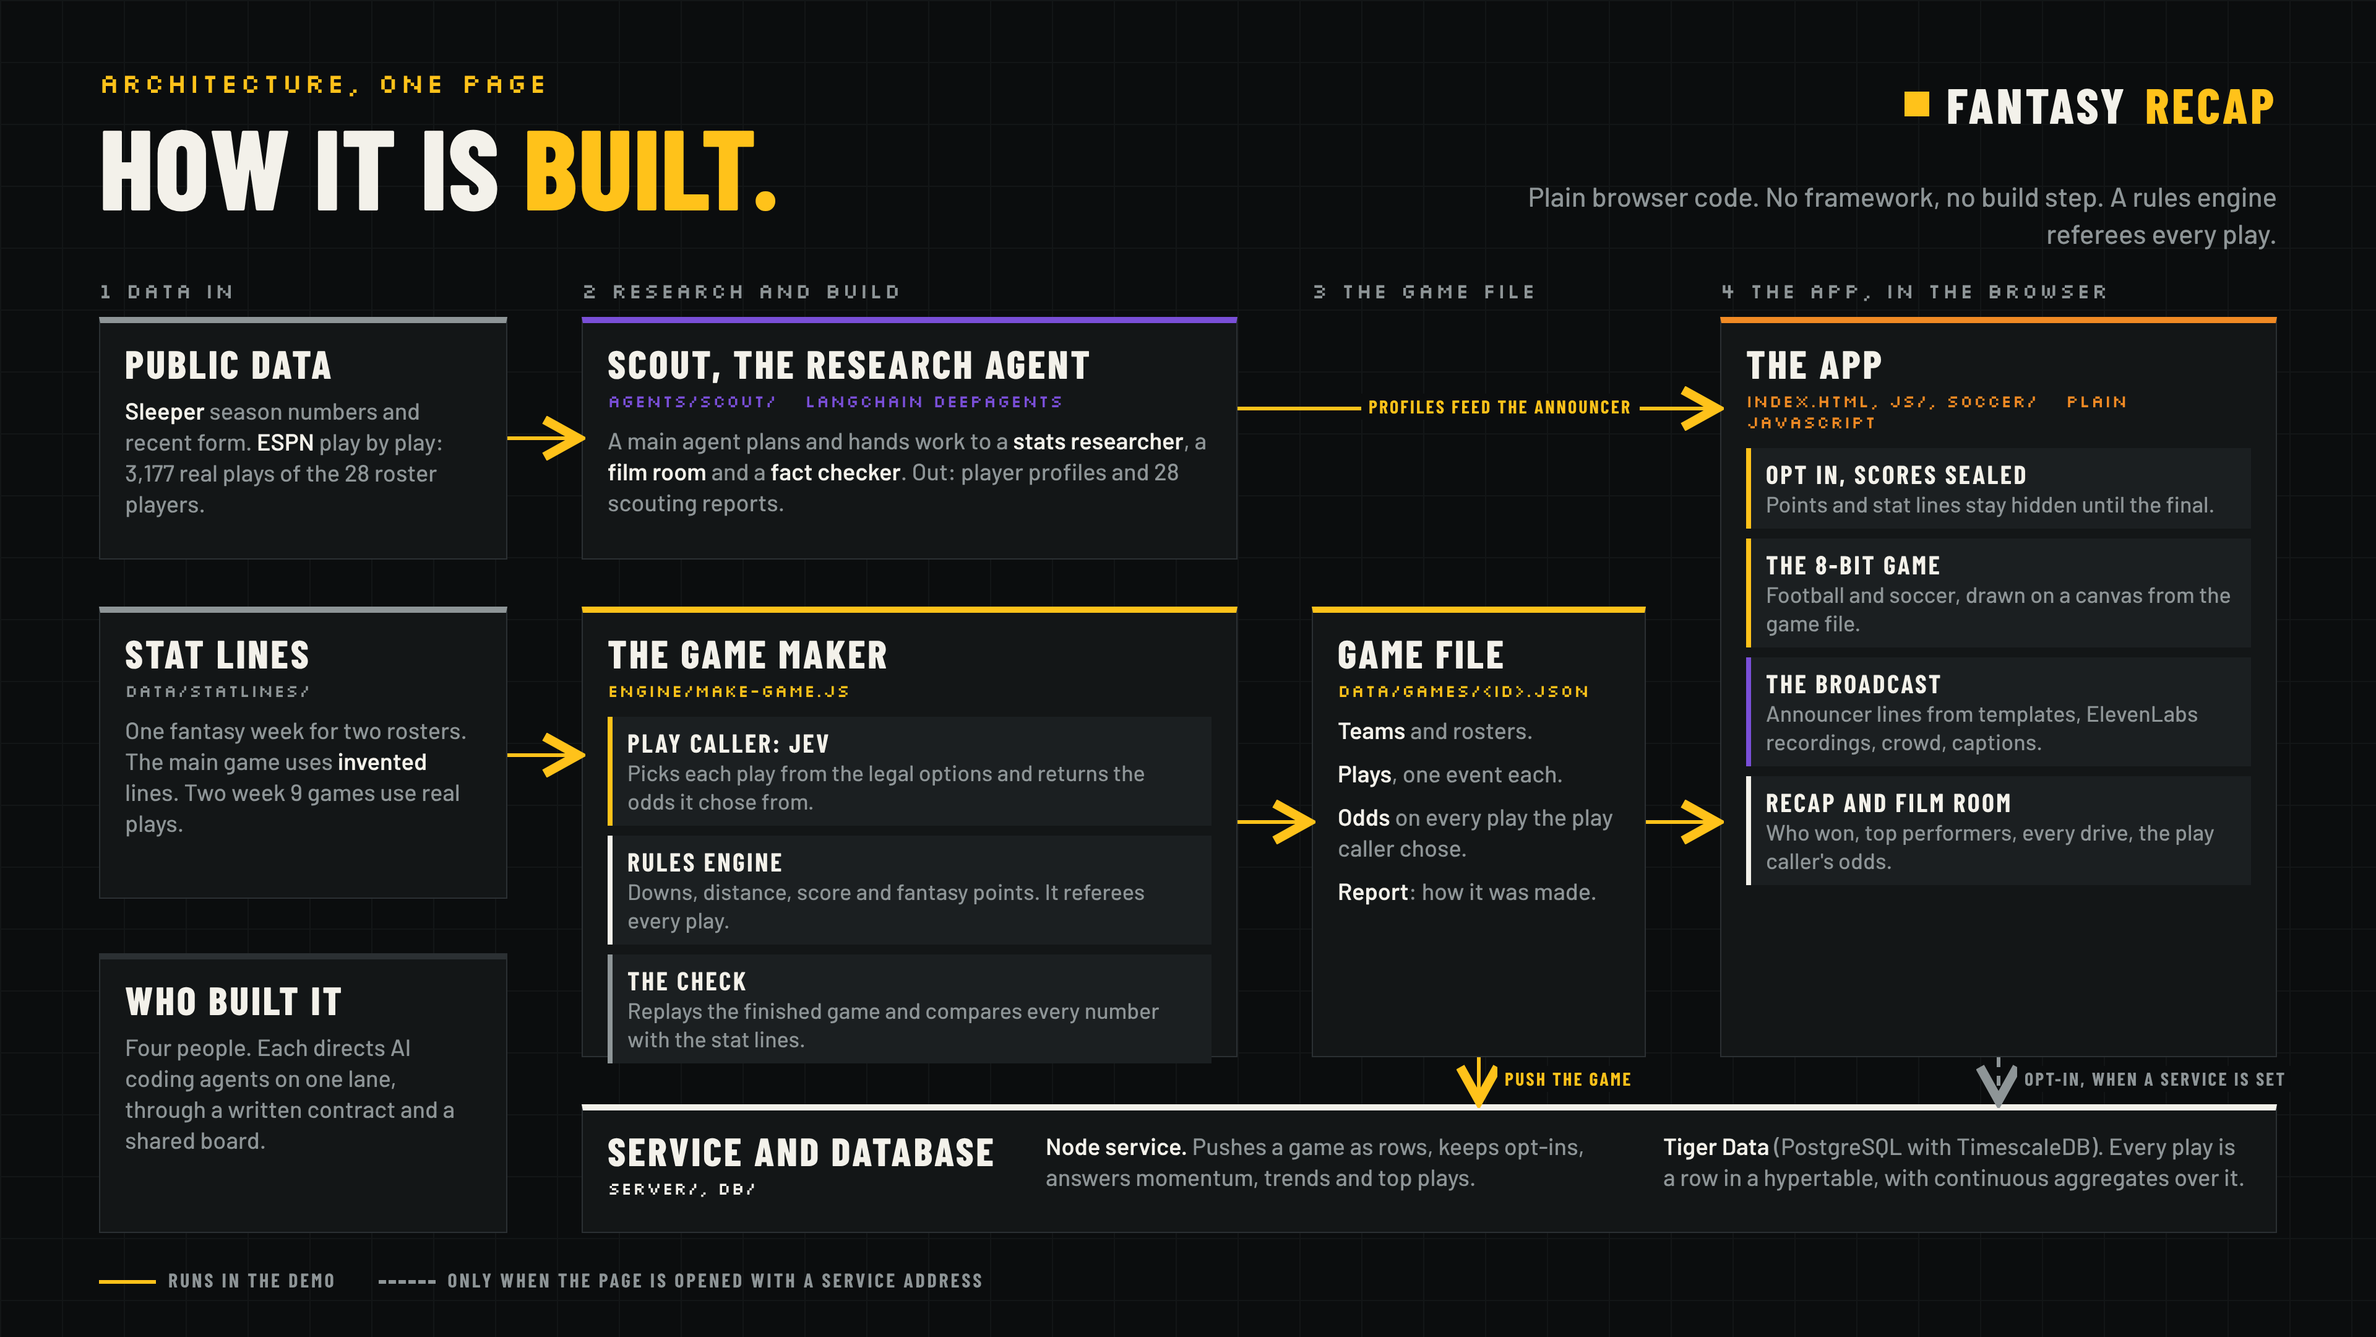
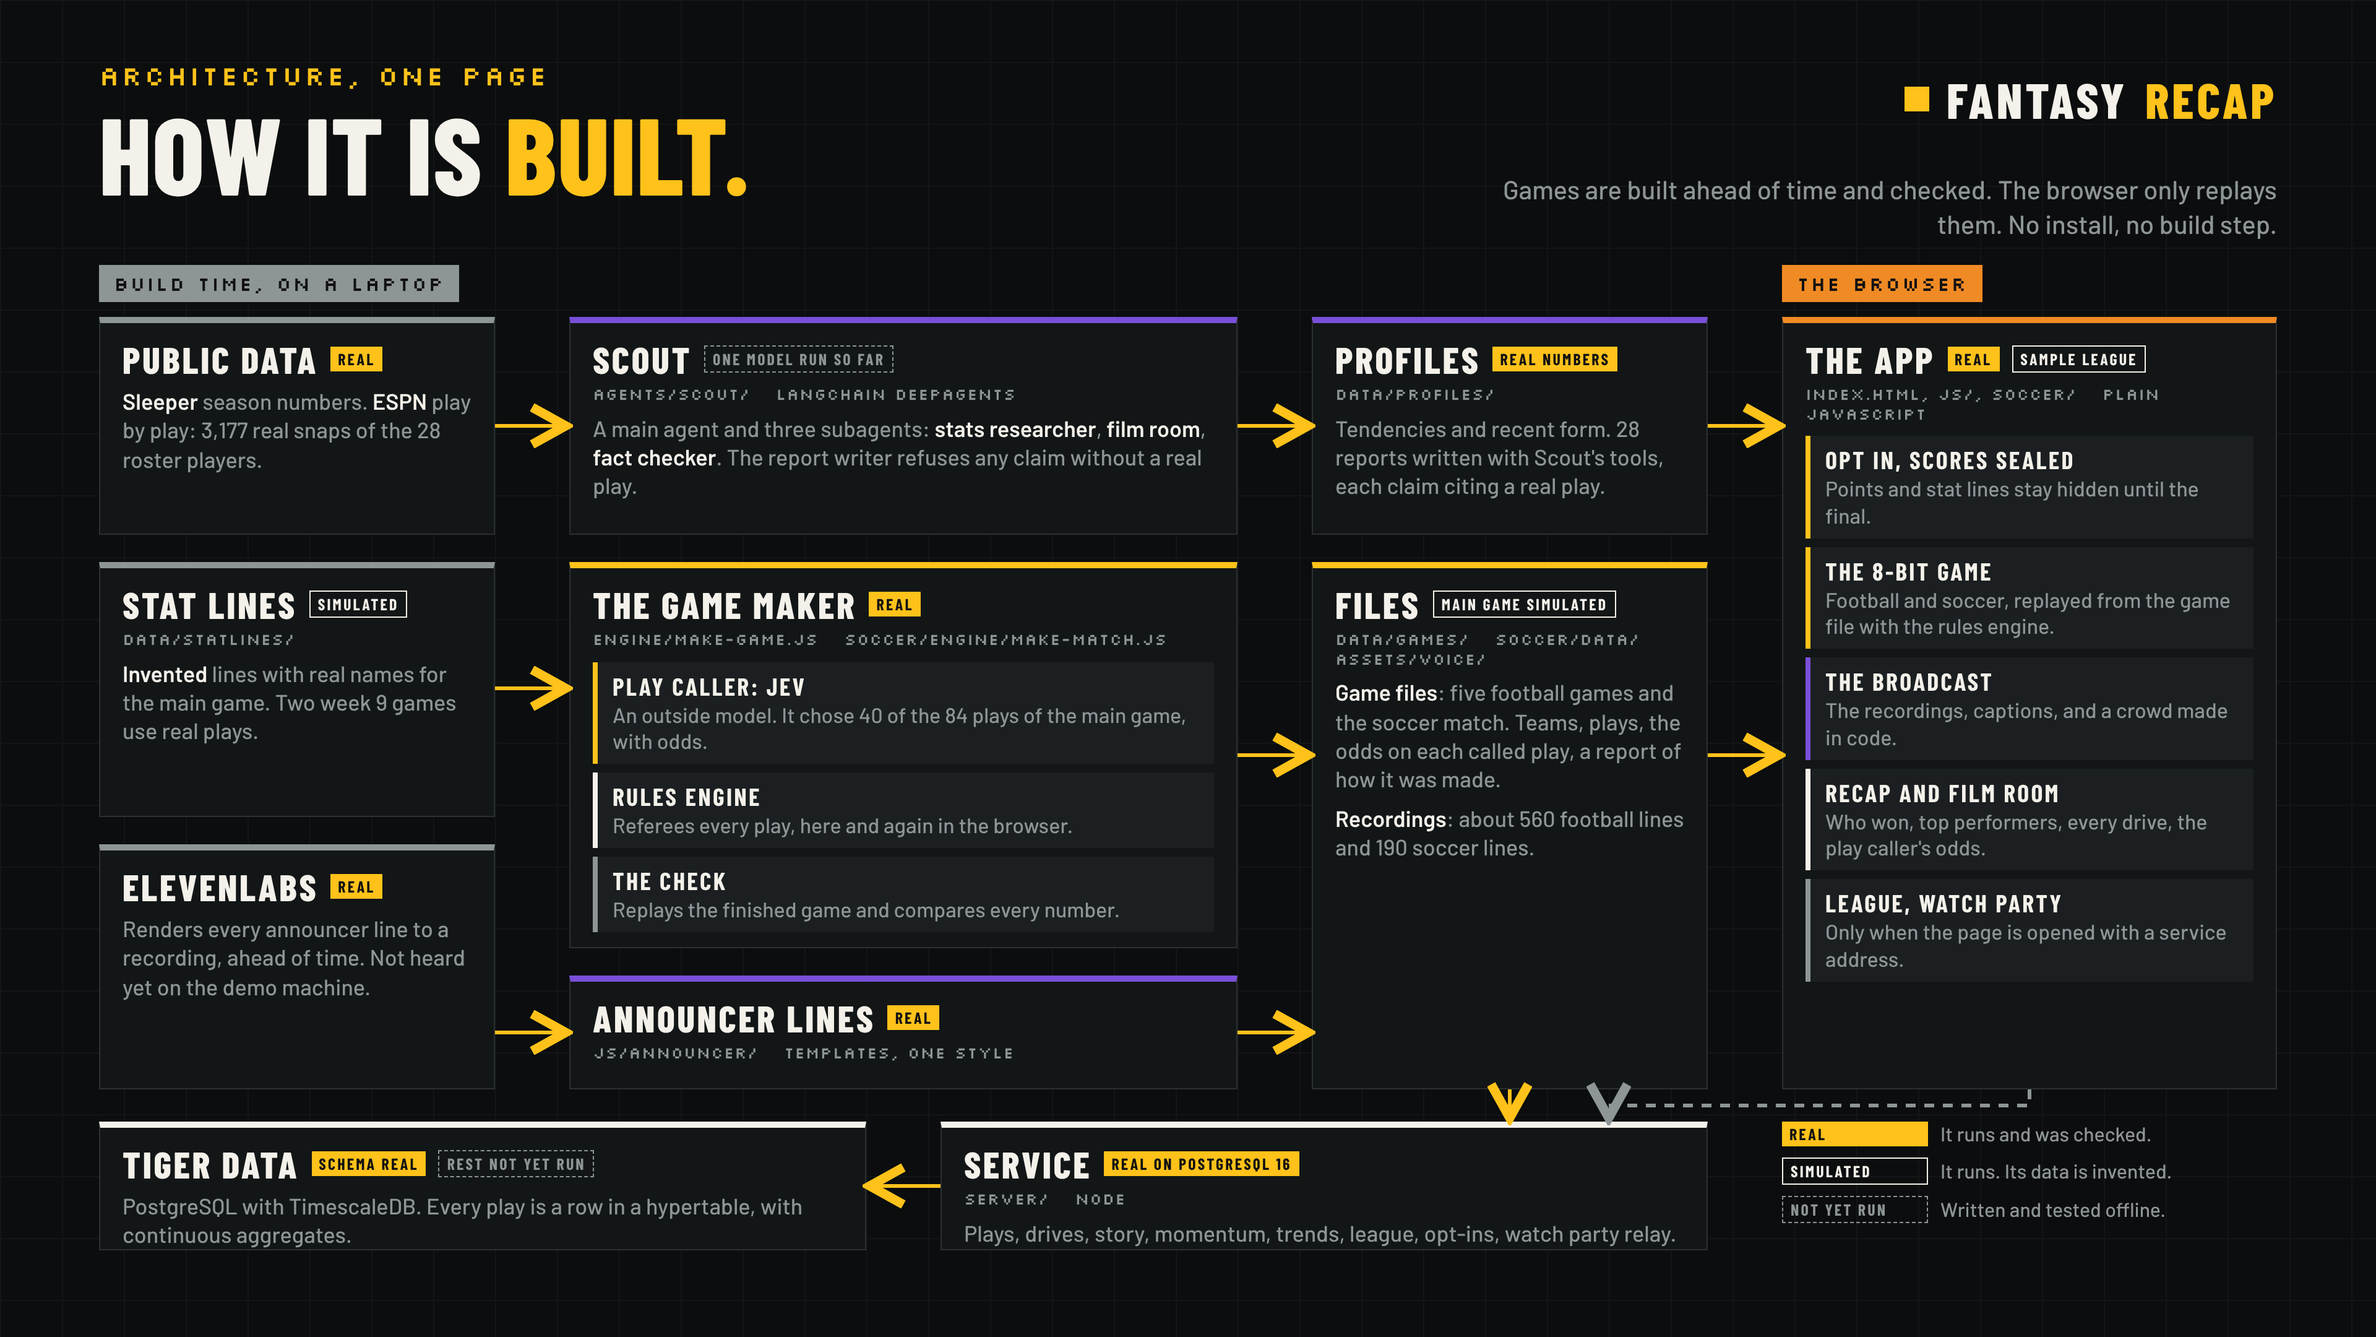
design: architecture picture redrawn from pitch/ARCHITECTURE.md, with real, simulated and not yet run marks

diff --git a/design/pitch/architecture.html b/design/pitch/architecture.html
@@ -2,95 +2,116 @@
 <html lang="en"><head><meta charset="utf-8"><title>Architecture, one page</title>
 <link rel="stylesheet" href="pitch.css">
 <style>
+/* Source: pitch/ARCHITECTURE.md (Ricky, checked against main on 2026-11-15). Keep the marks in step with it. */
 body { width: 1920px; height: 1080px; }
-.head { left: 80px; top: 56px; }
-.head .h1 { font-size: 92px; margin-top: 14px; }
-.wm { right: 80px; top: 64px; font-size: 40px; }
-.sub { right: 80px; top: 122px; width: 620px; text-align: right; color: var(--dim); font: 500 22px/1.35 var(--body); }
-.lab { position: absolute; top: 226px; font: 400 17px/1 var(--pixel); letter-spacing: 0.08em; color: var(--dim); text-transform: uppercase; }
-.box { position: absolute; background: var(--panel); border: 1px solid var(--rule); border-top: 5px solid var(--c, var(--rule)); padding: 16px 20px 16px; }
-.box h3 { margin: 0; font: 800 32px/1 var(--display); letter-spacing: 0.06em; text-transform: uppercase; }
-.box .path { margin-top: 7px; font: 400 14px/1.2 var(--pixel); letter-spacing: 0.04em; color: var(--c, var(--dim)); }
-.box p { margin: 10px 0 0; font: 500 19px/1.32 var(--body); color: var(--dim); }
+.head { left: 80px; top: 50px; }
+.head .h1 { font-size: 88px; margin-top: 12px; }
+.wm { right: 80px; top: 60px; font-size: 40px; }
+.sub { right: 80px; top: 118px; width: 640px; text-align: right; color: var(--dim); font: 500 21px/1.35 var(--body); }
+.world { position: absolute; top: 214px; height: 30px; display: flex; align-items: center; padding: 0 12px; font: 400 16px/1 var(--pixel); letter-spacing: 0.08em; text-transform: uppercase; color: #111; background: var(--dim); }
+.world.b { background: var(--t1); }
+.box { position: absolute; background: var(--panel); border: 1px solid var(--rule); border-top: 5px solid var(--c, var(--rule)); padding: 14px 18px 14px; }
+.box h3 { margin: 0; display: flex; align-items: center; gap: 10px; flex-wrap: wrap; font: 800 30px/1 var(--display); letter-spacing: 0.06em; text-transform: uppercase; }
+.box .path { margin-top: 6px; font: 400 13px/1.2 var(--pixel); letter-spacing: 0.04em; color: var(--dim); }
+.box p { margin: 8px 0 0; font: 500 18px/1.3 var(--body); color: var(--dim); }
 .box p b { color: var(--text); font-weight: 600; }
-.in { margin-top: 12px; display: grid; gap: 8px; }
-.in div { background: var(--inset); border-left: 4px solid var(--c2, var(--amber)); padding: 9px 12px 8px; font: 500 18px/1.28 var(--body); color: var(--dim); }
-.in div b { display: block; font: 700 21px/1.1 var(--display); letter-spacing: 0.08em; text-transform: uppercase; color: var(--text); margin-bottom: 2px; }
+.in { margin-top: 10px; display: grid; gap: 7px; }
+.in div { background: var(--inset); border-left: 4px solid var(--c2, var(--amber)); padding: 8px 12px 7px; font: 500 17px/1.28 var(--body); color: var(--dim); }
+.in div b { display: block; font: 700 20px/1.1 var(--display); letter-spacing: 0.08em; text-transform: uppercase; color: var(--text); margin-bottom: 2px; }
+.m { display: inline-block; font: 700 13px/1 var(--display); letter-spacing: 0.12em; text-transform: uppercase; padding: 4px 6px 3px; white-space: nowrap; vertical-align: middle; }
+.m.real { background: var(--amber); color: #111; }
+.m.sim { border: 1px solid var(--text); color: var(--text); }
+.m.not { border: 1px dashed var(--dim); color: var(--dim); }
 svg { position: absolute; left: 0; top: 0; }
-.note { position: absolute; font: 700 15px/1.15 var(--display); letter-spacing: 0.1em; text-transform: uppercase; color: var(--amber); background: var(--bg); padding: 2px 6px; }
-.legend { left: 80px; top: 1026px; display: flex; gap: 34px; align-items: center; font: 700 16px/1 var(--display); letter-spacing: 0.12em; text-transform: uppercase; color: var(--dim); }
-.legend i { display: inline-block; width: 46px; border-top: 3px solid var(--amber); vertical-align: middle; margin-right: 10px; }
-.legend i.dash { border-top-style: dashed; border-top-color: var(--dim); }
+.note { position: absolute; font: 700 14px/1.15 var(--display); letter-spacing: 0.1em; text-transform: uppercase; color: var(--amber); background: var(--bg); padding: 2px 6px; }
+.legend { position: absolute; left: 1440px; top: 906px; width: 400px; display: grid; gap: 9px; font: 500 16px/1.25 var(--body); color: var(--dim); }
+.legend div { display: grid; grid-template-columns: 118px 1fr; align-items: center; gap: 10px; }
 </style></head>
 <body>
 <div class="grid"></div>
 <div class="abs head"><div class="eyebrow">Architecture, one page</div><h1 class="h1">How it is <em>built.</em></h1></div>
 <div class="abs wm"><i></i>Fantasy <b>Recap</b></div>
-<p class="abs sub">Plain browser code. No framework, no build step. A rules engine referees every play.</p>
+<p class="abs sub">Games are built ahead of time and checked. The browser only replays them. No install, no build step.</p>
 
-<div class="lab" style="left:80px">1 Data in</div>
-<div class="lab" style="left:470px">2 Research and build</div>
-<div class="lab" style="left:1060px">3 The game file</div>
-<div class="lab" style="left:1390px">4 The app, in the browser</div>
+<div class="world" style="left:80px">Build time, on a laptop</div>
+<div class="world b" style="left:1440px">The browser</div>
 
-<!-- 1 data in -->
-<div class="box" style="left:80px;top:256px;width:330px;height:196px;--c:var(--dim)">
-  <h3>Public data</h3>
-  <p><b>Sleeper</b> season numbers and recent form. <b>ESPN</b> play by play: 3,177 real plays of the 28 roster players.</p>
+<!-- row 1: research -->
+<div class="box" style="left:80px;top:256px;width:320px;height:176px;--c:var(--dim)">
+  <h3>Public data <span class="m real">Real</span></h3>
+  <p><b>Sleeper</b> season numbers. <b>ESPN</b> play by play: 3,177 real snaps of the 28 roster players.</p>
 </div>
-<div class="box" style="left:80px;top:490px;width:330px;height:236px;--c:var(--dim)">
-  <h3>Stat lines</h3>
-  <div class="path">data/statlines/</div>
-  <p>One fantasy week for two rosters. The main game uses <b>invented</b> lines. Two week 9 games use real plays.</p>
-</div>
-
-<!-- 2 research and build -->
-<div class="box" style="left:470px;top:256px;width:530px;height:196px;--c:var(--t0)">
-  <h3>Scout, the research agent</h3>
+<div class="box" style="left:460px;top:256px;width:540px;height:176px;--c:var(--t0)">
+  <h3>Scout <span class="m not">One model run so far</span></h3>
   <div class="path">agents/scout/ &nbsp; LangChain deepagents</div>
-  <p>A main agent plans and hands work to a <b>stats researcher</b>, a <b>film room</b> and a <b>fact checker</b>. Out: player profiles and 28 scouting reports.</p>
+  <p>A main agent and three subagents: <b>stats researcher</b>, <b>film room</b>, <b>fact checker</b>. The report writer refuses any claim without a real play.</p>
 </div>
-<div class="box" style="left:470px;top:490px;width:530px;height:364px;--c:var(--amber)">
-  <h3>The game maker</h3>
-  <div class="path">engine/make-game.js</div>
+<div class="box" style="left:1060px;top:256px;width:320px;height:176px;--c:var(--t0)">
+  <h3>Profiles <span class="m real">Real numbers</span></h3>
+  <div class="path">data/profiles/</div>
+  <p>Tendencies and recent form. 28 reports written with Scout's tools, each claim citing a real play.</p>
+</div>
+
+<!-- row 2: the game -->
+<div class="box" style="left:80px;top:454px;width:320px;height:206px;--c:var(--dim)">
+  <h3>Stat lines <span class="m sim">Simulated</span></h3>
+  <div class="path">data/statlines/</div>
+  <p><b>Invented</b> lines with real names for the main game. Two week 9 games use real plays.</p>
+</div>
+<div class="box" style="left:460px;top:454px;width:540px;height:312px;--c:var(--amber)">
+  <h3>The game maker <span class="m real">Real</span></h3>
+  <div class="path">engine/make-game.js &nbsp; soccer/engine/make-match.js</div>
   <div class="in">
-    <div><b>Play caller: Jev</b>Picks each play from the legal options and returns the odds it chose from.</div>
-    <div style="--c2:var(--text)"><b>Rules engine</b>Downs, distance, score and fantasy points. It referees every play.</div>
-    <div style="--c2:var(--dim)"><b>The check</b>Replays the finished game and compares every number with the stat lines.</div>
+    <div><b>Play caller: Jev</b>An outside model. It chose 40 of the 84 plays of the main game, with odds.</div>
+    <div style="--c2:var(--text)"><b>Rules engine</b>Referees every play, here and again in the browser.</div>
+    <div style="--c2:var(--dim)"><b>The check</b>Replays the finished game and compares every number.</div>
   </div>
 </div>
-
-<!-- 3 game file -->
-<div class="box" style="left:1060px;top:490px;width:270px;height:364px;--c:var(--amber)">
-  <h3>Game file</h3>
-  <div class="path">data/games/&lt;id&gt;.json</div>
-  <p><b>Teams</b> and rosters.</p>
-  <p><b>Plays</b>, one event each.</p>
-  <p><b>Odds</b> on every play the play caller chose.</p>
-  <p><b>Report</b>: how it was made.</p>
+<div class="box" style="left:1060px;top:454px;width:320px;height:426px;--c:var(--amber)">
+  <h3>Files <span class="m sim">Main game simulated</span></h3>
+  <div class="path">data/games/ &nbsp; soccer/data/ &nbsp; assets/voice/</div>
+  <p><b>Game files</b>: five football games and the soccer match. Teams, plays, the odds on each called play, a report of how it was made.</p>
+  <p><b>Recordings</b>: about 560 football lines and 190 soccer lines.</p>
 </div>
 
-<!-- 4 the app -->
-<div class="box" style="left:1390px;top:256px;width:450px;height:598px;--c:var(--t1)">
-  <h3>The app</h3>
+<!-- row 3: the voice -->
+<div class="box" style="left:80px;top:682px;width:320px;height:198px;--c:var(--dim)">
+  <h3>ElevenLabs <span class="m real">Real</span></h3>
+  <p>Renders every announcer line to a recording, ahead of time. Not heard yet on the demo machine.</p>
+</div>
+<div class="box" style="left:460px;top:788px;width:540px;height:92px;--c:var(--t0)">
+  <h3>Announcer lines <span class="m real">Real</span></h3>
+  <div class="path">js/announcer/ &nbsp; templates, one style</div>
+</div>
+
+<!-- the browser -->
+<div class="box" style="left:1440px;top:256px;width:400px;height:624px;--c:var(--t1)">
+  <h3>The app <span class="m real">Real</span> <span class="m sim">Sample league</span></h3>
   <div class="path">index.html, js/, soccer/ &nbsp; plain JavaScript</div>
   <div class="in">
     <div><b>Opt in, scores sealed</b>Points and stat lines stay hidden until the final.</div>
-    <div><b>The 8-bit game</b>Football and soccer, drawn on a canvas from the game file.</div>
-    <div style="--c2:var(--t0)"><b>The broadcast</b>Announcer lines from templates, ElevenLabs recordings, crowd, captions.</div>
+    <div><b>The 8-bit game</b>Football and soccer, replayed from the game file with the rules engine.</div>
+    <div style="--c2:var(--t0)"><b>The broadcast</b>The recordings, captions, and a crowd made in code.</div>
     <div style="--c2:var(--text)"><b>Recap and film room</b>Who won, top performers, every drive, the play caller's odds.</div>
+    <div style="--c2:var(--dim)"><b>League, watch party</b>Only when the page is opened with a service address.</div>
   </div>
 </div>
 
 <!-- service and database -->
-<div class="box" style="left:470px;top:892px;width:1370px;height:104px;--c:var(--text);display:grid;grid-template-columns:330px 1fr 1fr;gap:24px;align-items:start">
-  <div><h3>Service and database</h3><div class="path">server/, db/</div></div>
-  <p style="margin:0"><b>Node service.</b> Pushes a game as rows, keeps opt-ins, answers momentum, trends and top plays.</p>
-  <p style="margin:0"><b>Tiger Data</b> (PostgreSQL with TimescaleDB). Every play is a row in a hypertable, with continuous aggregates over it.</p>
+<div class="box" style="left:80px;top:906px;width:620px;height:104px;--c:var(--text)">
+  <h3>Tiger Data <span class="m real">Schema real</span> <span class="m not">Rest not yet run</span></h3>
+  <p>PostgreSQL with TimescaleDB. Every play is a row in a hypertable, with continuous aggregates.</p>
 </div>
-<div class="box" style="left:80px;top:770px;width:330px;height:226px;--c:var(--rule)">
-  <h3>Who built it</h3>
-  <p>Four people. Each directs AI coding agents on one lane, through a written contract and a shared board.</p>
+<div class="box" style="left:760px;top:906px;width:620px;height:104px;--c:var(--text)">
+  <h3>Service <span class="m real">Real on PostgreSQL 16</span></h3>
+  <div class="path">server/ &nbsp; Node</div>
+  <p>Plays, drives, story, momentum, trends, league, opt-ins, watch party relay.</p>
+</div>
+
+<div class="legend">
+  <div><span class="m real">Real</span><span>It runs and was checked.</span></div>
+  <div><span class="m sim">Simulated</span><span>It runs. Its data is invented.</span></div>
+  <div><span class="m not">Not yet run</span><span>Written and tested offline.</span></div>
 </div>
 
 <svg width="1920" height="1080" viewBox="0 0 1920 1080" fill="none">
@@ -99,18 +120,18 @@ svg { position: absolute; left: 0; top: 0; }
     <marker id="d" markerWidth="12" markerHeight="12" refX="9" refY="6" orient="auto"><path d="M1 1L10 6L1 11" stroke="#8e9597" stroke-width="2.5" fill="none"/></marker>
   </defs>
   <g stroke="#ffc21a" stroke-width="3" marker-end="url(#a)">
-    <path d="M410 354H464"/>
-    <path d="M410 610H464"/>
-    <path d="M1000 664H1054"/>
-    <path d="M1330 664H1384"/>
-    <path d="M1000 330H1384"/>
-    <path d="M1195 854V886"/>
+    <path d="M400 344H454"/>
+    <path d="M1000 344H1054"/>
+    <path d="M1380 344H1434"/>
+    <path d="M400 556H454"/>
+    <path d="M1000 610H1054"/>
+    <path d="M1380 610H1434"/>
+    <path d="M400 834H454"/>
+    <path d="M1000 834H1054"/>
+    <path d="M1220 880V900"/>
+    <path d="M760 958H706"/>
   </g>
-  <path d="M1615 854V886" stroke="#8e9597" stroke-width="3" stroke-dasharray="8 7" marker-end="url(#d)"/>
+  <path d="M1640 880V893H1300V900" stroke="#8e9597" stroke-width="3" stroke-dasharray="8 7" marker-end="url(#d)"/>
 </svg>
-<div class="note" style="left:1100px;top:318px">Profiles feed the announcer</div>
-<div class="note" style="left:1210px;top:861px">Push the game</div>
-<div class="note" style="left:1630px;top:861px;color:var(--dim)">Opt-in, when a service is set</div>
-
-<div class="abs legend"><span><i></i>Runs in the demo</span><span><i class="dash"></i>Only when the page is opened with a service address</span></div>
+<div class="note" style="left:1392px;top:318px;display:none"></div>
 </body></html>

diff --git a/design/pitch/gallery-04-play-caller.html b/design/pitch/gallery-04-play-caller.html
@@ -13,7 +13,7 @@ body { width: 1500px; height: 1000px; }
   <p class="lede">A decision model picks each play from the options that are legal at that snap. The app shows the odds it chose from.</p>
   <div class="facts">
     <div class="fact"><b>40 / 84</b><span>plays of the main game were chosen by the play caller, Jev.</span></div>
-    <div class="fact"><b>3,177</b><span>real plays studied by Scout, our research agent, for 28 scouting reports.</span></div>
+    <div class="fact"><b>3,177</b><span>real plays read from ESPN. 28 scouting reports cite them, play by play.</span></div>
     <div class="fact"><b>Film</b><span>The film room charts every drive of the game.</span></div>
   </div>
 </div>
